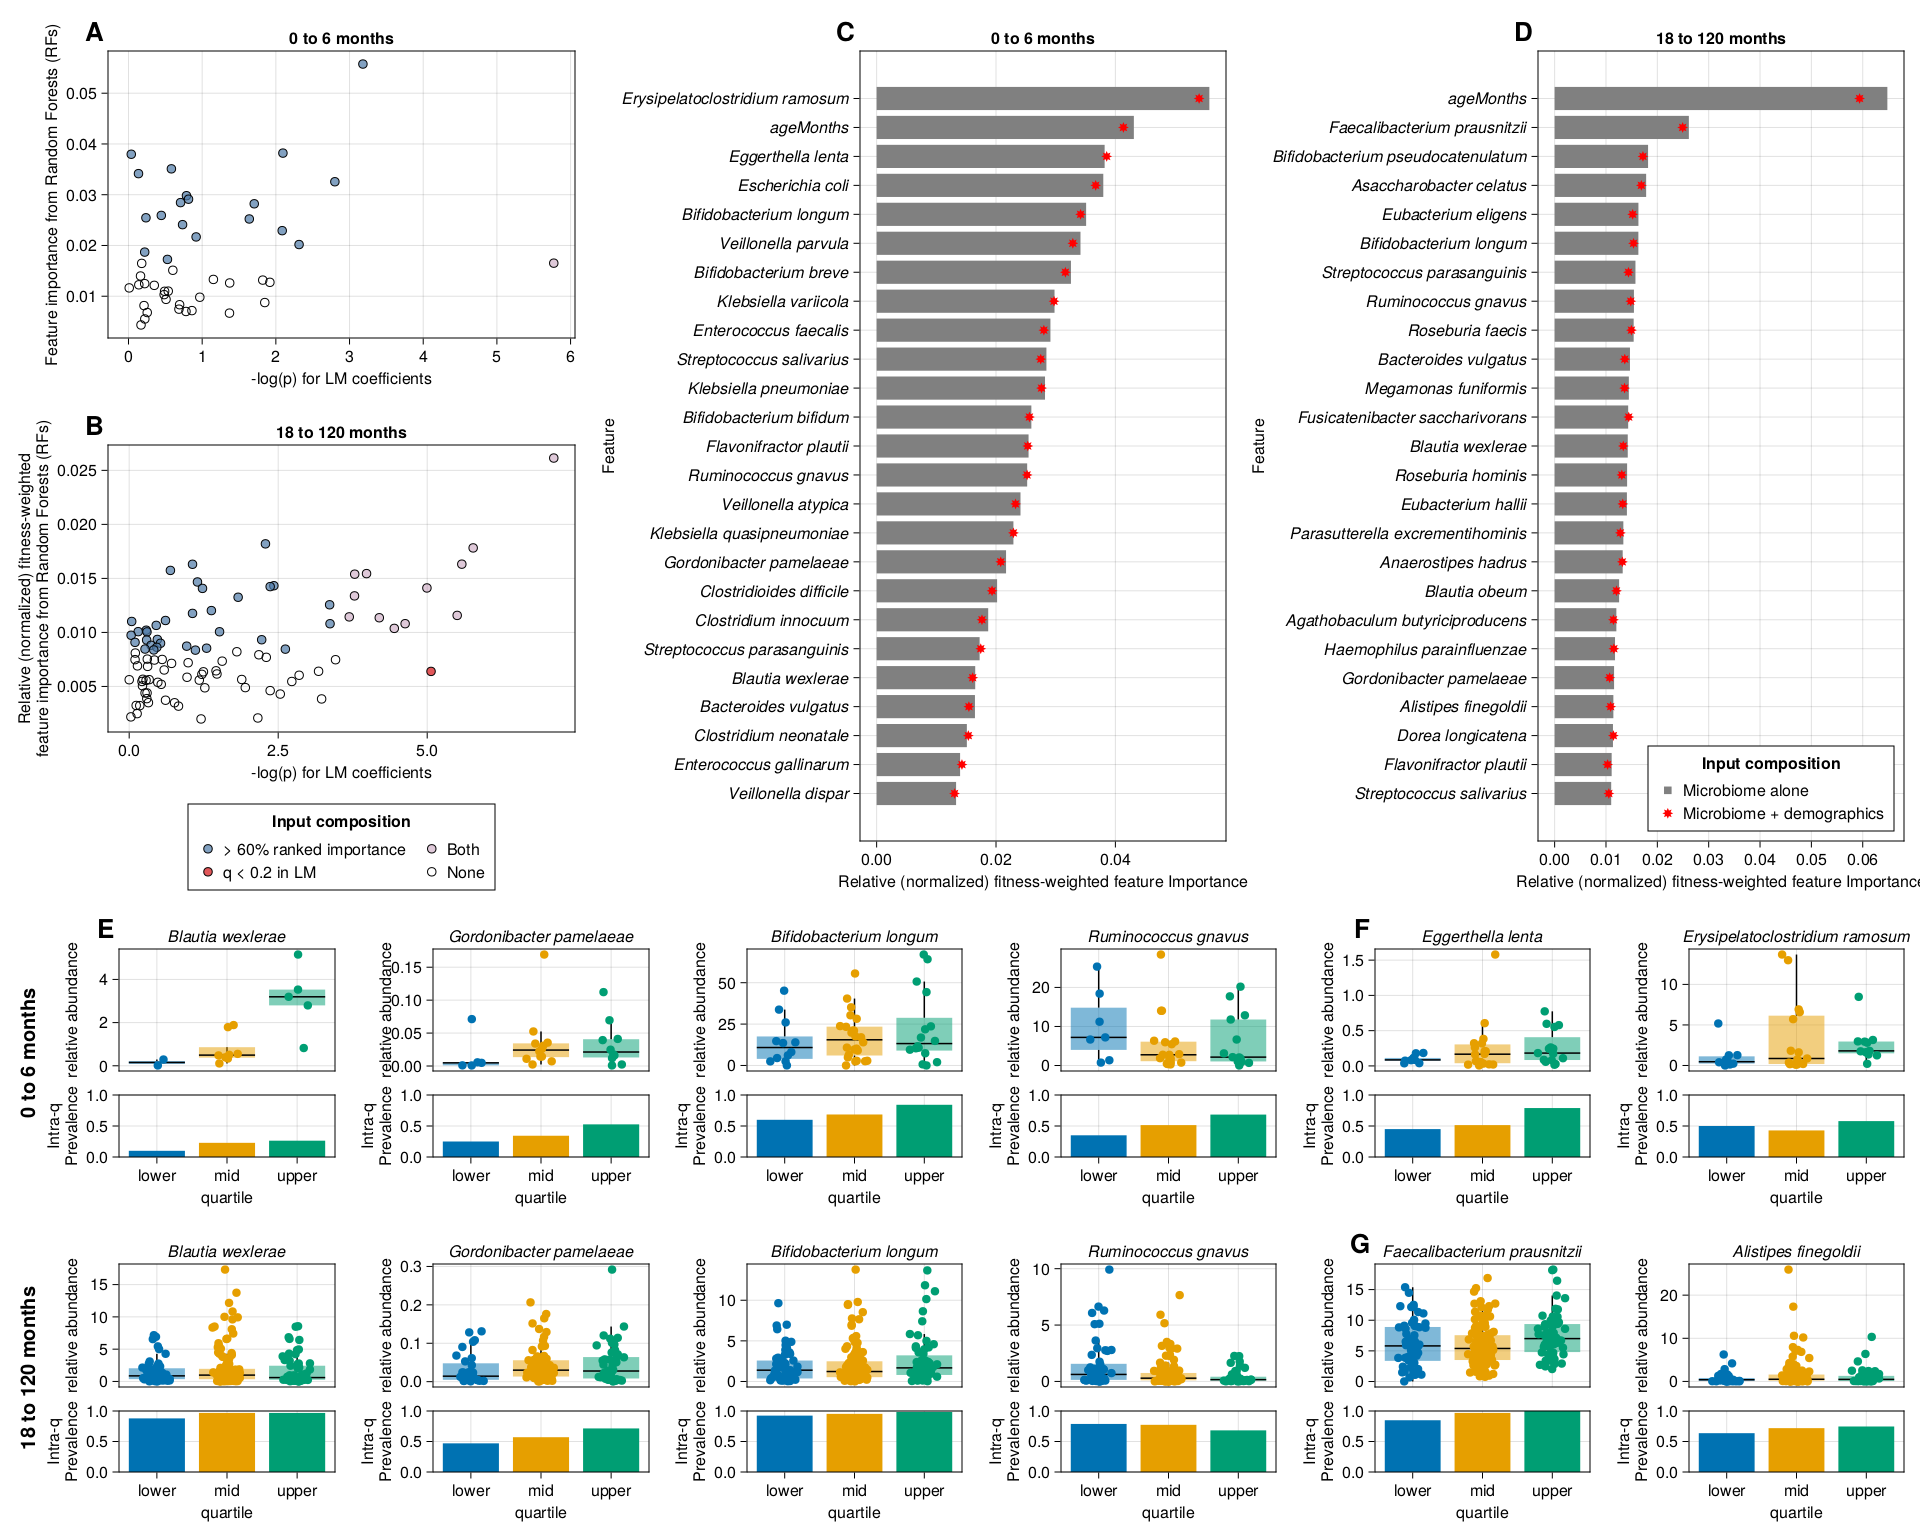
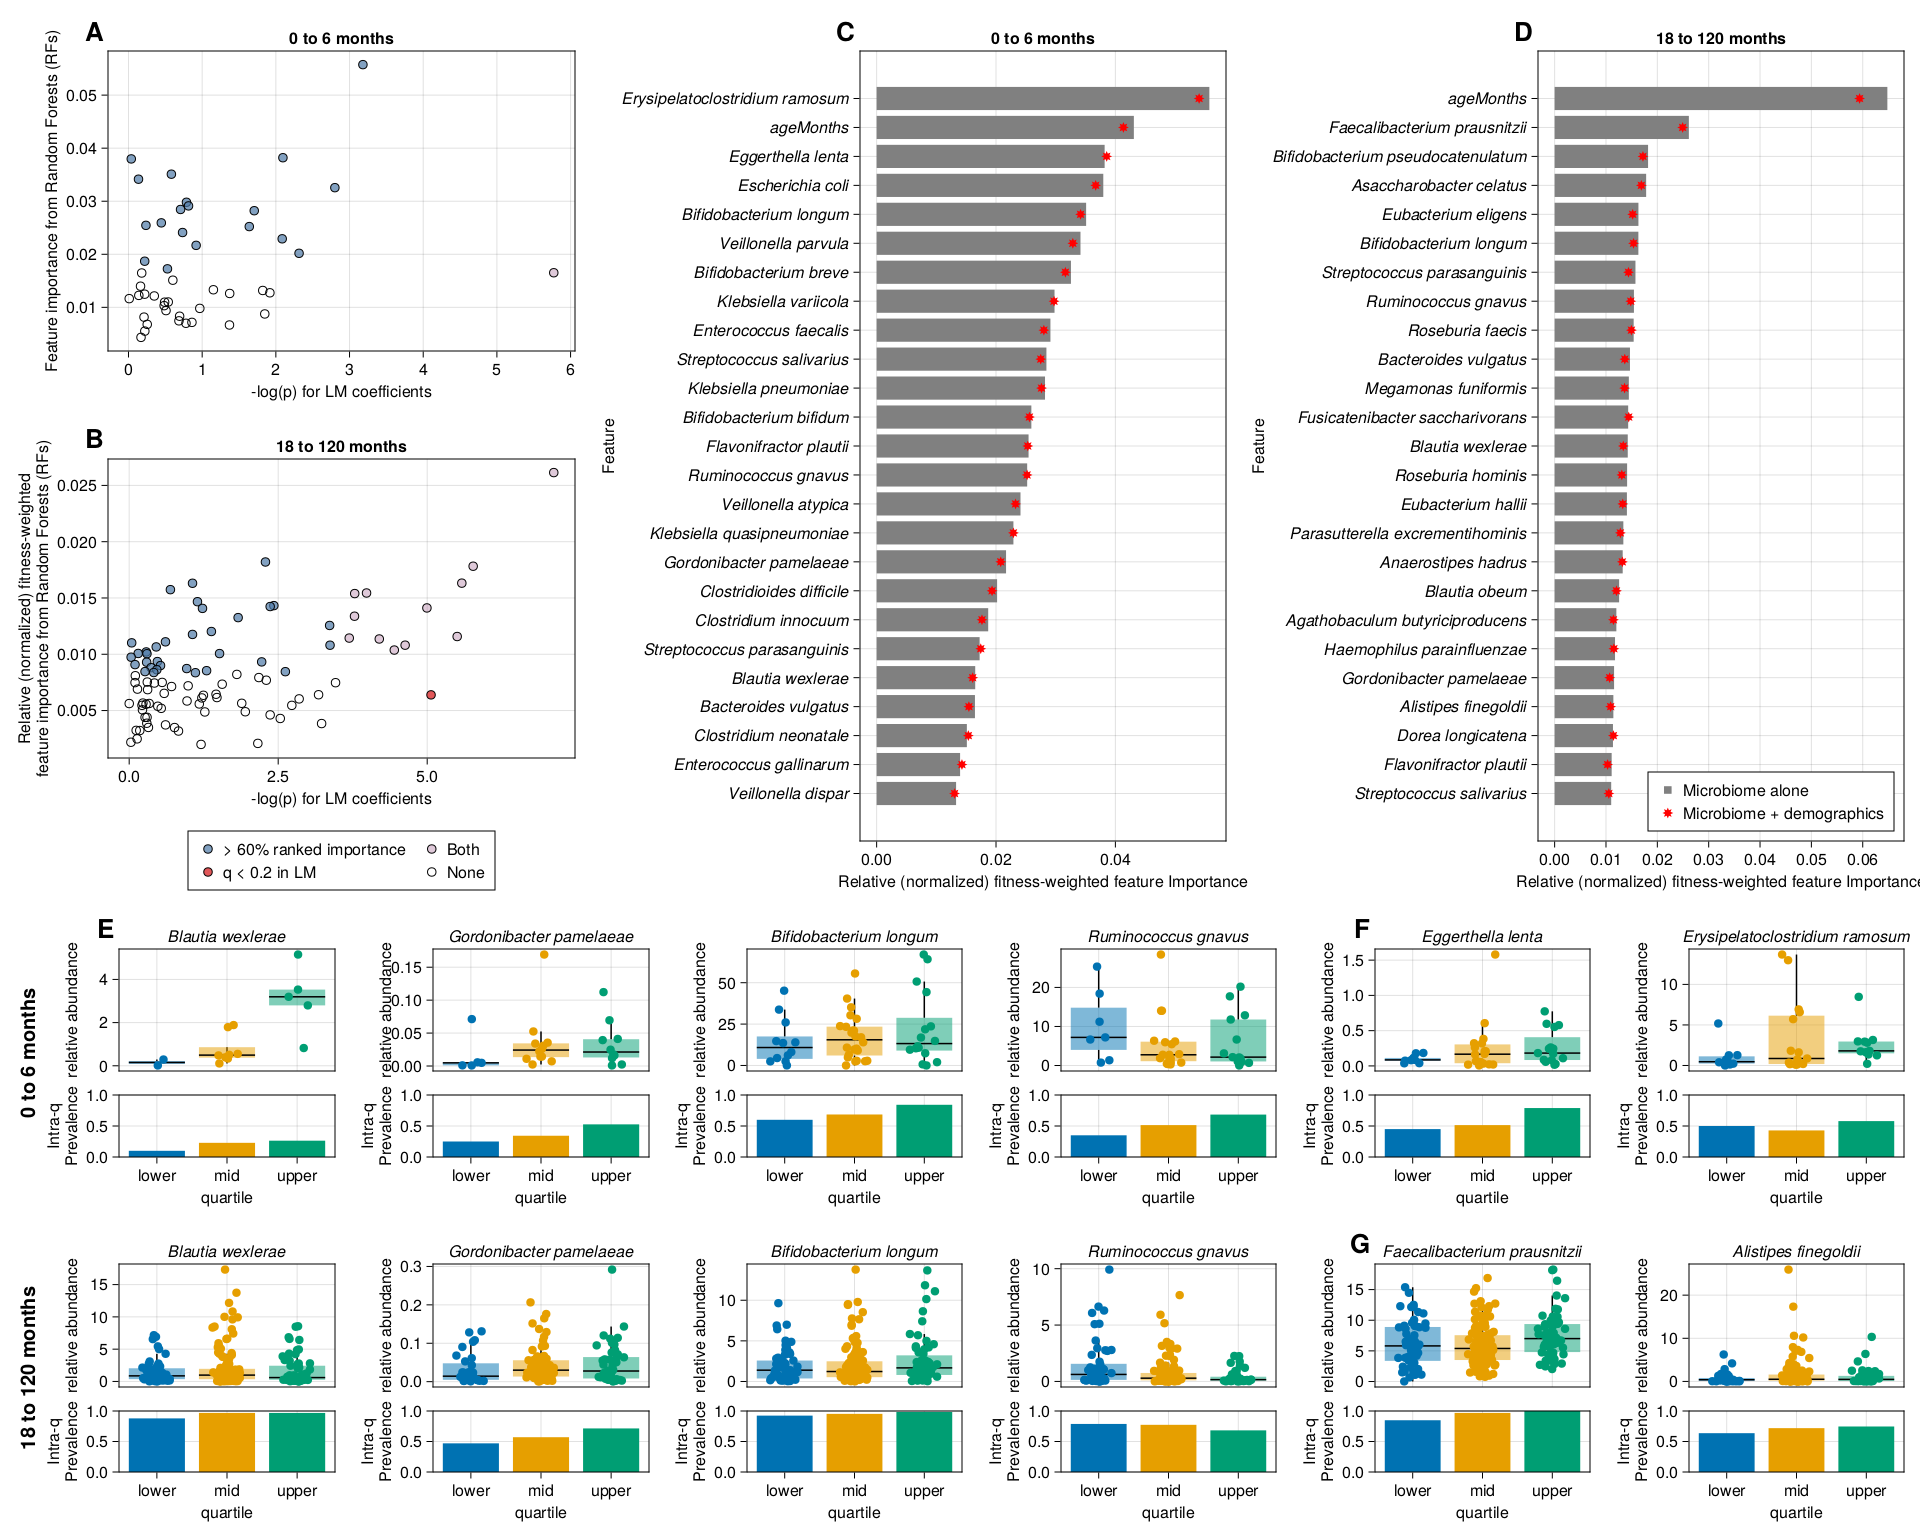
remove legend titles

Changed region(s): [[0.0, 0.0312, 0.3125, 0.5625], [0.875, 0.4688, 0.9688, 0.5], [0.2188, 0.375, 0.25, 0.4062]]

diff --git a/manuscript/Figure3.md b/manuscript/Figure3.md
@@ -90,8 +90,7 @@ Legend(
         "q < 0.2 in LM",
         "Both",
         "None"
-    ],
-    "Input composition",
+    ];
     tellheight = true,
     tellwidth = false,
     nbanks = 2,
@@ -137,7 +136,7 @@ plot_comparativedemo_importance_barplots!(axC, joined_importances_00to06; n_rows
 plot_comparativedemo_importance_barplots!(axD, joined_importances_18to120; n_rows = nbars_toplot)
 
 Legend(
-    CD_subfig[1, 2], [MarkerElement(; marker=:rect, color=:gray), MarkerElement(; marker=:star8, color=:red)], ["Microbiome alone", "Microbiome + demographics"], "Input composition",
+    CD_subfig[1, 2], [MarkerElement(; marker=:rect, color=:gray), MarkerElement(; marker=:star8, color=:red)], ["Microbiome alone", "Microbiome + demographics"];
     tellheight = false,
     tellwidth = false,
     margin = (10, 10, 10, 10),
@@ -180,4 +179,4 @@ figure
 ```julia
 save(figurefiles("Figure3.svg"), figure)
 save("manuscript/assets/Figure3.png", figure)
-```
+``` 
